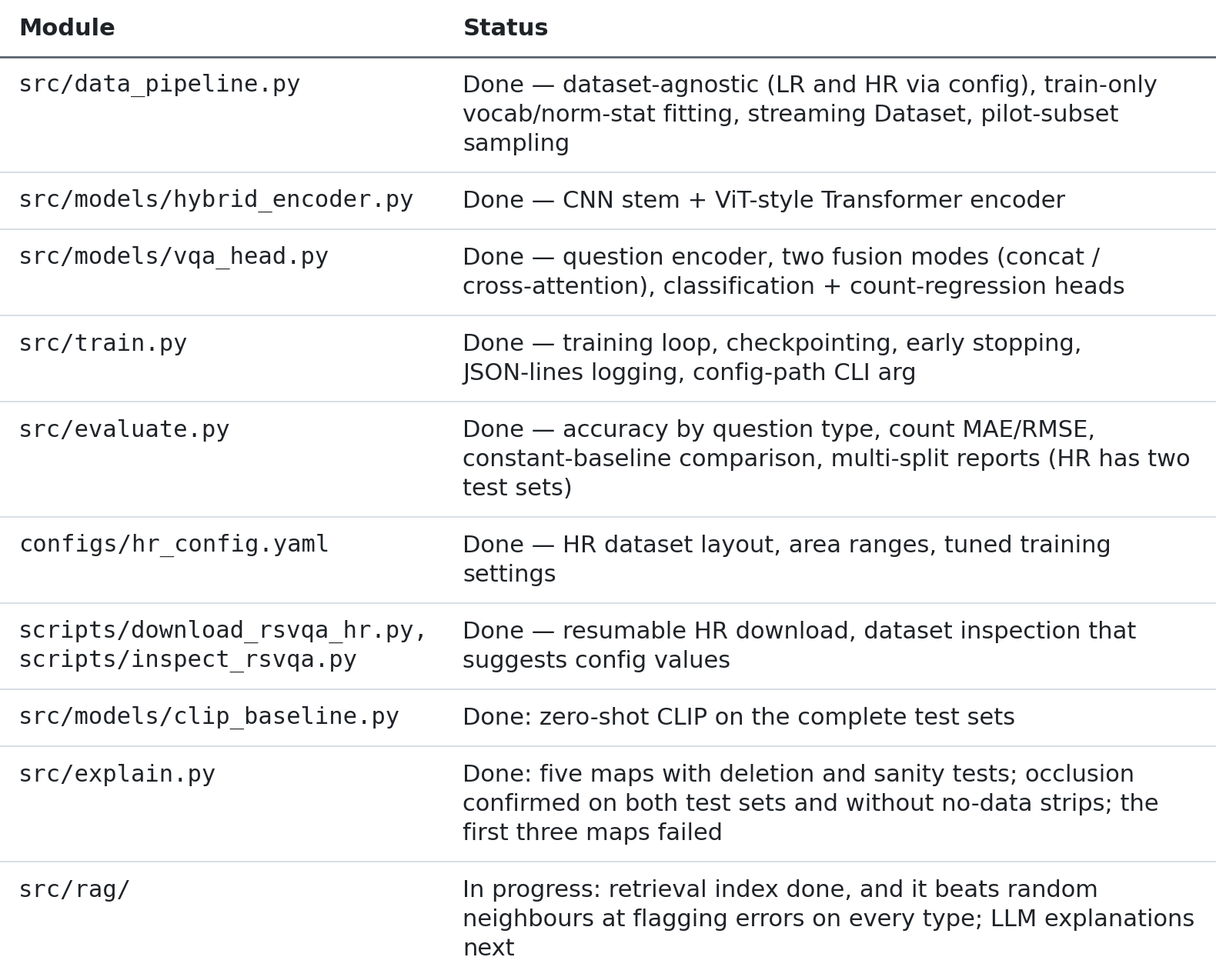
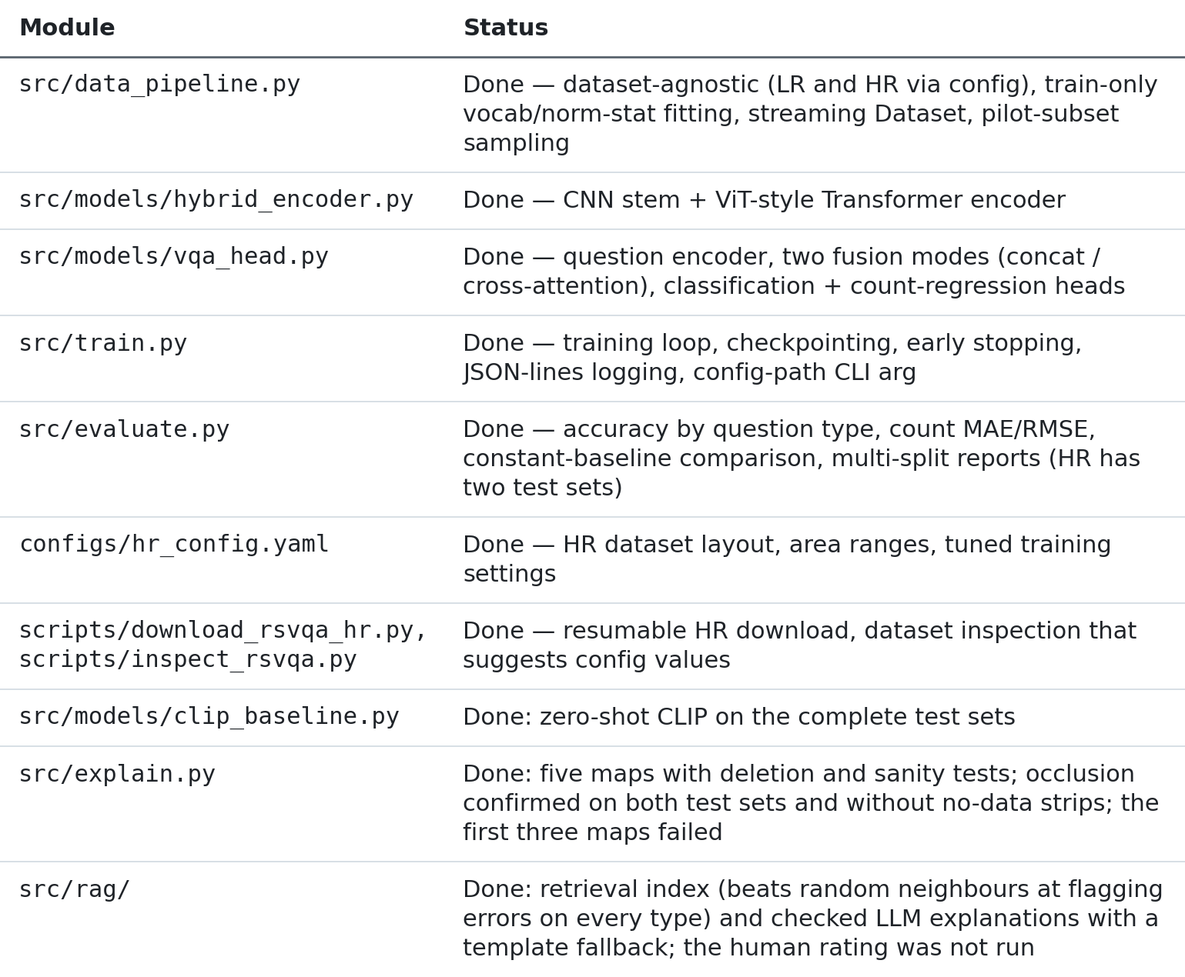
Record RAG explanations (Week 6, part 2): warning stats, checks, example; human rating not run

diff --git a/reports/rag_explanations_hr_full_20261031-090319_pilot.md b/reports/rag_explanations_hr_full_20261031-090319_pilot.md
@@ -1,0 +1,212 @@
+# RAG explanations: hr_full_20261031-090319_pilot
+
+LLM: `openai/gpt-oss-120b` at `https://api.groq.com/openai/v1`. Each question is explained with and without the neighbours.
+
+- Main set: 16 questions (up to 1 per test split, type and right or wrong answer). It decides.
+- Warned set: 8 questions where the warning fired (up to 1 per test split and type, not in the main set). Reported on its own.
+
+## Uncertainty warning on the test pool
+
+Rule, fixed in advance: classification warns when fewer than 3 of the 5 neighbours have the model's answer as their true answer; count warns when the rounded count is outside the neighbours' range of true counts. One question per tile and type.
+
+| Set | Type | Questions | Warned | Model wrong when warned | Model wrong otherwise |
+|---|---|---|---|---|---|
+| test | presence | 300 | 3.3% | 10.0% (10) | 6.9% (290) |
+| test | comp | 300 | 5.0% | 40.0% (15) | 9.5% (285) |
+| test | area | 300 | 9.7% | 41.4% (29) | 7.0% (271) |
+| test | count | 300 | 2.3% | 71.4% (7) | 29.4% (293) |
+| test_phili | presence | 300 | 6.7% | 45.0% (20) | 17.1% (280) |
+| test_phili | comp | 300 | 8.7% | 26.9% (26) | 23.0% (274) |
+| test_phili | area | 300 | 13.0% | 66.7% (39) | 35.6% (261) |
+| test_phili | count | 300 | 0.3% | 100.0% (1) | 37.8% (299) |
+| pooled | presence | 600 | 5.0% | 33.3% (30) | 11.9% (570) |
+| pooled | comp | 600 | 6.8% | 31.7% (41) | 16.1% (559) |
+| pooled | area | 600 | 11.3% | 55.9% (68) | 21.1% (532) |
+| pooled | count | 600 | 1.3% | 75.0% (8) | 33.6% (592) |
+
+## Checks
+
+Code writes the answer, the cells and the strip note in both texts; the LLM writes only the neighbour paragraph, which falls back to a template when a check fails.
+
+| Set | Neighbour paragraph by the LLM | Fell back to the template | Tokens |
+|---|---|---|---|
+| main | 16 of 16 | 0 | 12,157 |
+| warned | 5 of 8 | 3 | 6,494 |
+
+Why texts fell back:
+
+- banned phrasing: 3
+
+## Explanations
+
+### test-22575 (main set): Is a small commercial building present?
+
+True answer: no; model right; warning: no; no-data strip: no.
+
+- **with neighbours** (llm): The model answered "no" with 99% confidence. Among the most similar cases, #1 asked “Is a small commercial building present?” with a true answer no, and #2 asked the same question with a true answer no. All five of the similar training cases have the model’s answer as their true answer. Changing the cells at the top centre and centre of the tile changed the answer most. That tells you what the answer depended on, not where anything is.
+- **without neighbours** (code): The model answered "no" with 99% confidence. Changing the cells at the top centre and centre of the tile changed the answer most. That tells you what the answer depended on, not where anything is.
+
+### test-22388 (main set): Is a medium school present?
+
+True answer: yes; model wrong; warning: no; no-data strip: no.
+
+- **with neighbours** (llm): The model answered "no" with 82% confidence. Four of the five most similar training cases share the model’s answer. For example, case #1 asked “Is a medium school present in the image?” with a true answer of no, and case #3 asked “Is there a medium school?” also with a true answer of no. Changing the cells at the bottom right and top right of the tile changed the answer most. That tells you what the answer depended on, not where anything is.
+- **without neighbours** (code): The model answered "no" with 82% confidence. Changing the cells at the bottom right and top right of the tile changed the answer most. That tells you what the answer depended on, not where anything is.
+
+### test-2469 (main set): What is the area covered by small commercial buildings?
+
+True answer: 0 square meters; model right; warning: no; no-data strip: no.
+
+- **with neighbours** (llm): The model answered "0 square meters" with 99% confidence. Among the most similar training cases, #1 asks “What is the area covered by small commercial buildings?” with a true answer of 0 square meters, and #2 asks the same question with a true answer of 0 square meters; in total, 5 of the 5 similar cases have true answers that match the model’s answer. Changing the cells at the middle left of the tile changed the answer most. That tells you what the answer depended on, not where anything is.
+- **without neighbours** (code): The model answered "0 square meters" with 99% confidence. Changing the cells at the middle left of the tile changed the answer most. That tells you what the answer depended on, not where anything is.
+
+### test-6822 (main set): What is the area covered by buildings?
+
+True answer: more than 1000 square meters; model wrong; warning: no; no-data strip: no.
+
+- **with neighbours** (llm): The model answered "101 to 1000 square meters" with 76% confidence. Among the most similar training cases, #1 and #3 both asked “What is the area covered by buildings?” with the true answer 101 to 1000 square meters, and all five similar cases share this true answer. Changing the cells at the middle right and bottom left of the tile changed the answer most. That tells you what the answer depended on, not where anything is.
+- **without neighbours** (code): The model answered "101 to 1000 square meters" with 76% confidence. Changing the cells at the middle right and bottom left of the tile changed the answer most. That tells you what the answer depended on, not where anything is.
+
+### test-22946 (main set): Are there more commercial buildings than roads?
+
+True answer: no; model right; warning: no; no-data strip: no.
+
+- **with neighbours** (llm): The model answered "no" with 100% confidence. Among the most similar training cases, #1 asked “Are there more commercial buildings than roads?” with a true answer of no, and #2 asked the same question with a true answer of no; in fact, all five similar cases had the true answer “no.” Changing the cells at the middle left and top left of the tile changed the answer most. That tells you what the answer depended on, not where anything is.
+- **without neighbours** (code): The model answered "no" with 100% confidence. Changing the cells at the middle left and top left of the tile changed the answer most. That tells you what the answer depended on, not where anything is.
+
+### test-26969 (main set): Are there more buildings than pedestrians?
+
+True answer: yes; model wrong; warning: no; no-data strip: no.
+
+- **with neighbours** (llm): The model answered "no" with 65% confidence. Three of the five most similar training cases share the model’s answer. For example, case #1 asked “Are there more buildings than pedestrians?” with the true answer “no,” and case #4 asked the same question with the true answer “no.” Changing the cells at the bottom left, centre and top centre of the tile changed the answer most. That tells you what the answer depended on, not where anything is.
+- **without neighbours** (code): The model answered "no" with 65% confidence. Changing the cells at the bottom left, centre and top centre of the tile changed the answer most. That tells you what the answer depended on, not where anything is.
+
+### test-13935 (main set): How many rectangular buildings are there?
+
+True answer: 13; model wrong; warning: no; no-data strip: no.
+
+- **with neighbours** (llm): The model answered "11". Among the most similar training cases, #1 asked “How many rectangular buildings are there?” with a true answer of 10, and #2 asked the same question with a true answer of 16; none of the five similar cases have a true answer of 11. Changing the cells at the top right, middle right and bottom left of the tile changed the answer most. That tells you what the answer depended on, not where anything is.
+- **without neighbours** (code): The model answered "11". Changing the cells at the top right, middle right and bottom left of the tile changed the answer most. That tells you what the answer depended on, not where anything is.
+
+### test-8986 (main set): How many commercial buildings at the bottom of the  hospital are there?
+
+True answer: 0; model right; warning: no; no-data strip: no.
+
+- **with neighbours** (llm): The model answered "0". Among the most similar cases, #1 asked “How many commercial buildings on the right of the park are there?” with a true answer of 0, and #3 asked “How many commercial buildings at the bottom of the university are there?” also with a true answer of 0; in fact, all five similar training questions have true answers of 0. Changing the cells at the bottom centre and bottom right of the tile changed the answer most. That tells you what the answer depended on, not where anything is.
+- **without neighbours** (code): The model answered "0". Changing the cells at the bottom centre and bottom right of the tile changed the answer most. That tells you what the answer depended on, not where anything is.
+
+### test-16141 (warned set): Is there a road on the right of a  park?
+
+True answer: yes; model wrong; warning: yes; no-data strip: no.
+
+- **with neighbours** (llm): The model answered "no" with 51% confidence. The answer is uncertain because only 2 of the 5 similar cases have the model’s answer as their true answer. For example, case #1 asked “Is a park on the right of a road present?” with a true answer of no, and case #4 asked “Is there a road on the right of the library?” with a true answer of yes. Changing the cells at the bottom left and top left of the tile changed the answer most. That tells you what the answer depended on, not where anything is.
+- **without neighbours** (code): The model answered "no" with 51% confidence. Changing the cells at the bottom left and top left of the tile changed the answer most. That tells you what the answer depended on, not where anything is.
+
+### test-8395 (warned set): What is the area covered by large woods?
+
+True answer: more than 1000 square meters; model right; warning: yes; no-data strip: no.
+
+- **with neighbours** (template; failed: banned phrasing: \b(it|the model|model)\s+(sees|saw|looked|looks|noticed|notices|recogni[sz]ed|detected|identified|found|believes?|thinks?|learned|learnt|associates?)\b): The model answered "more than 1000 square meters" with 45% confidence. Of the 5 training questions the model treats as most similar, 1 had this answer as their true answer (#1 is the closest). Because most of them disagree, treat this answer as uncertain. Changing the cells at the top left and top centre of the tile changed the answer most. That tells you what the answer depended on, not where anything is.
+- **without neighbours** (code): The model answered "more than 1000 square meters" with 45% confidence. Changing the cells at the top left and top centre of the tile changed the answer most. That tells you what the answer depended on, not where anything is.
+
+### test-19136 (warned set): Is the number of water areas equal to the number of roads?
+
+True answer: yes; model right; warning: yes; no-data strip: no.
+
+- **with neighbours** (template; failed: banned phrasing: \b(it|the model|model)\s+(sees|saw|looked|looks|noticed|notices|recogni[sz]ed|detected|identified|found|believes?|thinks?|learned|learnt|associates?)\b): The model answered "yes" with 54% confidence. Of the 5 training questions the model treats as most similar, 2 had this answer as their true answer (#1 is the closest). Because most of them disagree, treat this answer as uncertain. Changing the cells at the bottom left of the tile changed the answer most. That tells you what the answer depended on, not where anything is.
+- **without neighbours** (code): The model answered "yes" with 54% confidence. Changing the cells at the bottom left of the tile changed the answer most. That tells you what the answer depended on, not where anything is.
+
+### test-6923 (warned set): How many residential buildings on the left of a  road are there?
+
+True answer: 2; model wrong; warning: yes; no-data strip: no.
+
+- **with neighbours** (llm): The model answered "1". The model’s answer is uncertain because its count of 1 lies outside the range of true counts (2 to 4) seen in the most similar training cases. For example, case #1 asked “How many residential buildings at the top of a park are there?” with a true answer of 4, and case #2 asked “How many residential buildings at the bottom of a road are there?” with a true answer of 2. Changing the cells at the middle left and bottom right of the tile changed the answer most. That tells you what the answer depended on, not where anything is.
+- **without neighbours** (code): The model answered "1". Changing the cells at the middle left and bottom right of the tile changed the answer most. That tells you what the answer depended on, not where anything is.
+
+### test_phili-13393 (main set): What is the area covered by pedestrians on the left of a  commercial building?
+
+True answer: 0 square meters; model right; warning: no; no-data strip: yes.
+
+- **with neighbours** (llm): The model answered "0 square meters" with 100% confidence. All five of the most similar training cases have the same true answer as the model’s answer. For example, case #1 asks “What is the area covered by pedestrians at the bottom of a commercial building?” with a true answer of 0 square meters, and case #2 asks “What is the area covered by pedestrians at the bottom of a commercial building in the image?” also with a true answer of 0 square meters. Changing the cells at the middle right and bottom right of the tile changed the answer most. That tells you what the answer depended on, not where anything is. The tile has a black no-data strip; strong cells next to it say nothing about what is there.
+- **without neighbours** (code): The model answered "0 square meters" with 100% confidence. Changing the cells at the middle right and bottom right of the tile changed the answer most. That tells you what the answer depended on, not where anything is. The tile has a black no-data strip; strong cells next to it say nothing about what is there.
+
+### test_phili-17143 (main set): What is the area covered by rectangular residential buildings?
+
+True answer: more than 1000 square meters; model wrong; warning: no; no-data strip: no.
+
+- **with neighbours** (llm): The model answered "0 square meters" with 89% confidence. Among the most similar training cases, #1 asked “What is the area covered by residential buildings?” with a true answer of 0 square meters, and #2 asked “What is the area covered by rectangular buildings?” also with a true answer of 0 square meters. In total, all five similar cases (5 of 5) have true answers that match the model’s answer. Changing the cells at the top left and bottom left of the tile changed the answer most. That tells you what the answer depended on, not where anything is.
+- **without neighbours** (code): The model answered "0 square meters" with 89% confidence. Changing the cells at the top left and bottom left of the tile changed the answer most. That tells you what the answer depended on, not where anything is.
+
+### test_phili-27477 (main set): Are there more buildings than water areas?
+
+True answer: yes; model right; warning: no; no-data strip: no.
+
+- **with neighbours** (llm): The model answered "yes" with 95% confidence. All five of the most similar training cases have the true answer “yes”. For instance, case #1 asks “Are there more buildings than water areas?” with true answer yes, and case #4 asks “Are there more residential buildings than water areas?” with true answer yes. Changing the cells at the bottom centre of the tile changed the answer most. That tells you what the answer depended on, not where anything is.
+- **without neighbours** (code): The model answered "yes" with 95% confidence. Changing the cells at the bottom centre of the tile changed the answer most. That tells you what the answer depended on, not where anything is.
+
+### test_phili-18482 (main set): Is the number of commercial buildings equal to the number of greenfields?
+
+True answer: no; model wrong; warning: no; no-data strip: yes.
+
+- **with neighbours** (llm): The model answered "yes" with 82% confidence. All five of the most similar training cases have the true answer “yes”. For example, case #1 asks “Is the number of commercial buildings equal to the number of cemeterys?” with a true answer of yes, and case #2 asks “Is the number of commercial buildings equal to the number of vineyards?” with a true answer of yes. Changing the cells at the bottom right and top left of the tile changed the answer most. That tells you what the answer depended on, not where anything is. The tile has a black no-data strip; strong cells next to it say nothing about what is there.
+- **without neighbours** (code): The model answered "yes" with 82% confidence. Changing the cells at the bottom right and top left of the tile changed the answer most. That tells you what the answer depended on, not where anything is. The tile has a black no-data strip; strong cells next to it say nothing about what is there.
+
+### test_phili-22680 (main set): Is a road on the right of a  small building present?
+
+True answer: no; model right; warning: no; no-data strip: no.
+
+- **with neighbours** (llm): The model answered "no" with 99% confidence. Among the most similar training cases, #1 asked “Is a stadium at the bottom of a small building present?” with a true answer of no, and #2 asked “Is there a small wood?” with a true answer of no. All five of the similar cases have the model’s answer as their true answers. Changing the cells at the bottom right and top right of the tile changed the answer most. That tells you what the answer depended on, not where anything is.
+- **without neighbours** (code): The model answered "no" with 99% confidence. Changing the cells at the bottom right and top right of the tile changed the answer most. That tells you what the answer depended on, not where anything is.
+
+### test_phili-12048 (main set): Is there a medium water area?
+
+True answer: yes; model wrong; warning: no; no-data strip: yes.
+
+- **with neighbours** (llm): The model answered "no" with 93% confidence. Among the five most similar training cases, all five have the model’s answer as their true answers. For example, case #1 asked “Is a medium water area present?” with true answer no, and case #2 asked “Is there a medium water area?” with true answer no. Changing the cells at the bottom right and middle right of the tile changed the answer most. That tells you what the answer depended on, not where anything is. The tile has a black no-data strip; strong cells next to it say nothing about what is there.
+- **without neighbours** (code): The model answered "no" with 93% confidence. Changing the cells at the bottom right and middle right of the tile changed the answer most. That tells you what the answer depended on, not where anything is. The tile has a black no-data strip; strong cells next to it say nothing about what is there.
+
+### test_phili-18696 (main set): How many medium buildings are there?
+
+True answer: 7; model wrong; warning: no; no-data strip: no.
+
+- **with neighbours** (llm): The model answered "0". Four of the five most similar training cases have true answers of 0, matching the model’s answer. For example, case #1 asks “How many medium buildings are there in the image?” with a true answer 0, while case #5 asks the same question but has a true answer 1. Changing the cells at the top left and middle right of the tile changed the answer most. That tells you what the answer depended on, not where anything is.
+- **without neighbours** (code): The model answered "0". Changing the cells at the top left and middle right of the tile changed the answer most. That tells you what the answer depended on, not where anything is.
+
+### test_phili-13982 (main set): What is the number of large water areas?
+
+True answer: 0; model right; warning: no; no-data strip: yes.
+
+- **with neighbours** (llm): The model answered "0". Among the most similar training cases, #1 asked “What is the number of large water areas?” with a true answer of 0, and #3 asked “What is the amount of large water areas in the image?” also with a true answer of 0; in fact, all five similar cases have true answers of 0. Changing the cells at the middle left and top left of the tile changed the answer most. That tells you what the answer depended on, not where anything is. The tile has a black no-data strip; strong cells next to it say nothing about what is there.
+- **without neighbours** (code): The model answered "0". Changing the cells at the middle left and top left of the tile changed the answer most. That tells you what the answer depended on, not where anything is. The tile has a black no-data strip; strong cells next to it say nothing about what is there.
+
+### test_phili-27515 (warned set): What is the area covered by residential buildings?
+
+True answer: more than 1000 square meters; model wrong; warning: yes; no-data strip: no.
+
+- **with neighbours** (template; failed: banned phrasing: \b(it|the model|model)\s+(sees|saw|looked|looks|noticed|notices|recogni[sz]ed|detected|identified|found|believes?|thinks?|learned|learnt|associates?)\b): The model answered "101 to 1000 square meters" with 55% confidence. Of the 5 training questions the model treats as most similar, 2 had this answer as their true answer (#1 is the closest). Because most of them disagree, treat this answer as uncertain. Changing the cells at the bottom right and top left of the tile changed the answer most. That tells you what the answer depended on, not where anything is.
+- **without neighbours** (code): The model answered "101 to 1000 square meters" with 55% confidence. Changing the cells at the bottom right and top left of the tile changed the answer most. That tells you what the answer depended on, not where anything is.
+
+### test_phili-15588 (warned set): Is the number of roads equal to the number of buildings?
+
+True answer: no; model right; warning: yes; no-data strip: no.
+
+- **with neighbours** (llm): The model answered "no" with 77% confidence. The model’s answer is uncertain because only 2 of the 5 similar cases share its answer as the true answer. For example, case #1 asks “Is the number of buildings equal to the number of roads?” with a true answer of no, and case #3 asks “Is the number of roads equal to the number of buildings?” with a true answer of no. Changing the cells at the middle left of the tile changed the answer most. That tells you what the answer depended on, not where anything is.
+- **without neighbours** (code): The model answered "no" with 77% confidence. Changing the cells at the middle left of the tile changed the answer most. That tells you what the answer depended on, not where anything is.
+
+### test_phili-7352 (warned set): Is there a parking on the left of a  road?
+
+True answer: no; model wrong; warning: yes; no-data strip: no.
+
+- **with neighbours** (llm): The model answered "yes" with 54% confidence. The model’s answer is uncertain because only 2 of the 5 similar cases share that answer as their true answer. For example, case #3 asked “Is there a parking on the right of a road?” with a true answer yes, and case #4 asked “Is a park on the left of a building present?” with a true answer yes. Changing the cells at the top left of the tile changed the answer most. That tells you what the answer depended on, not where anything is.
+- **without neighbours** (code): The model answered "yes" with 54% confidence. Changing the cells at the top left of the tile changed the answer most. That tells you what the answer depended on, not where anything is.
+
+### test_phili-6506 (warned set): What is the amount of buildings?
+
+True answer: 71; model wrong; warning: yes; no-data strip: no.
+
+- **with neighbours** (llm): The model answered "4". The model’s answer is uncertain because its count of 4 lies outside the range of true answers (6 to 12) seen in similar cases. Among the five most similar training questions, #1 asks “What is the amount of buildings?” with a true answer of 6, and #5 asks the same question with a true answer of 9; none of the similar cases have a true answer of 4. Changing the cells at the top centre and top left of the tile changed the answer most. That tells you what the answer depended on, not where anything is.
+- **without neighbours** (code): The model answered "4". Changing the cells at the top centre and top left of the tile changed the answer most. That tells you what the answer depended on, not where anything is.
+
+## Time
+
+3.9 min in total, 3.1 min of it explaining the rating set. Rating sheet: `reports/rag_rating_hr_full_20261031-090319_pilot.csv`.

diff --git a/README.md b/README.md
@@ -16,8 +16,9 @@ follows.
 
 **Week 1 (RSVQA-LR pipeline) is complete, trained, and evaluated.**
 **Weeks 2-4 (RSVQA-HR port, tuning, full run) are complete, trained, and evaluated.**
+**Weeks 5-6 (CLIP baseline, explainability, RAG explanations) are complete.**
 
-<img src="reports/figures/table_01.png" alt="Status: Module, Status" width="790">
+<img src="reports/figures/table_01.png" alt="Status: Module, Status" width="770">
 
 <details><summary>Table as text</summary>
 
@@ -32,11 +33,11 @@ follows.
 | `scripts/download_rsvqa_hr.py`, `scripts/inspect_rsvqa.py` | Done — resumable HR download, dataset inspection that suggests config values |
 | `src/models/clip_baseline.py` | Done: zero-shot CLIP on the complete test sets |
 | `src/explain.py` | Done: five maps with deletion and sanity tests; occlusion confirmed on both test sets and without no-data strips; the first three maps failed |
-| `src/rag/` | In progress: retrieval index done, and it beats random neighbours at flagging errors on every type; LLM explanations next |
+| `src/rag/` | Done: retrieval index (beats random neighbours at flagging errors on every type) and checked LLM explanations with a template fallback; the human rating was not run |
 
 </details>
 
-Run `pytest tests/ -v` to verify (80 tests, all passing — includes HR code paths tested against a small synthetic fake-HR dataset, so they don't require the real 14GB download).
+Run `pytest tests/ -v` to verify (206 tests, all passing — includes HR code paths tested against a small synthetic fake-HR dataset, so they don't require the real 14GB download).
 
 The HR data was downloaded and inspected on 2026-10-22: 10,659 tiles (512×512 PNG), 4 splits with no
 tile overlap, and question types presence / comp / area / count. Area answers turned out to be exact
@@ -69,7 +70,7 @@ same model, optimizer, schedule, early-stopping and random state.
 Week 3 tuning is done (see Week 3 tuning below): small model, learning rate 1.5e-4. The Week 4 full
 run is done too (see HR full run below): 90.2% test accuracy, count MAE 0.91.
 
-**Next:** Week 6, part 2 (LLM explanations from the retrieved neighbours).
+**Next:** Week 7, the demo web app (runs locally on a Mac, with cached explanations for the demo questions).
 
 ### Week 1 baseline results (RSVQA-LR, 5 epochs, GPU)
 
@@ -607,6 +608,64 @@ Only types that pass may use neighbour disagreement as an uncertainty warning in
 - **The model gets 72% to 92% of the neighbours right, but they are training data,** so that is inflated by fitting
   and is not used in explanations as evidence of reliability. Explanations use the neighbours' true answers.
 
+### RAG explanations (Week 6, part 2)
+
+The second half: each answer gets a short text explanation built from the trained model's own evidence. Code writes
+everything that is a plain fact: the answer and its confidence, which grid cells changed the answer most (the
+occlusion map, the one that passed the XAI tests), and a note when the tile has a black no-data strip. A free hosted
+LLM (`openai/gpt-oss-120b` on Groq's free tier) writes one paragraph about the 5 retrieved training neighbours:
+what they asked, their true answers, and a warning when they disagree with the model. Reports:
+`reports/rag_explanations_hr_full_20261031-090319.md` (full run) and `..._pilot.md` (the 24 pilot texts, labelled).
+
+**The LLM paragraph is checked by code before it is shown.** It fails, and a fixed template paragraph is shown
+instead, if it uses a number not in the facts, cites a neighbour other than #1 to #5, mentions the cells or the strip
+(code writes those), says or implies what is in the image, gives reasons or causes for the answer ("based on",
+"relied on", "the model sees"), calls anything correct or wrong, mentions similarity, runs over 90 words, or adds or
+omits the uncertainty note against the rule. The LLM never sees the true answer or whether the model was right.
+On the full run, the LLM paragraph passed for 60 of 64 main questions and 11 of 16 warned ones; 80 requests, 11
+minutes, within the free tier. Three pilot rounds shaped the checks: the first prompt made the LLM invent training
+cases it was not given, blame the warning on the model's confidence, and claim the neighbours caused the answer.
+
+Example (pilot, a warned count question, true answer 71):
+
+> The model answered "4". The model's answer is uncertain because its count of 4 lies outside the range of true
+> answers (6 to 12) seen in similar cases. Among the five most similar training questions, #1 asks "What is the
+> amount of buildings?" with a true answer of 6, and #5 asks the same question with a true answer of 9; none of the
+> similar cases have a true answer of 4. Changing the cells at the top centre and top left of the tile changed the
+> answer most. That tells you what the answer depended on, not where anything is.
+
+**The uncertainty warning, rule fixed before any result:** a yes/no or area answer is warned when fewer than 3 of
+its 5 neighbours have it as their true answer; a count is warned when, rounded, it falls outside the neighbours'
+range of true counts. On one question per test tile and type (13,128), both test sets pooled:
+
+<img src="reports/figures/table_18.png" alt="RAG explanations (Week 6, part 2): Type, Warned, Model wrong when warned, Model wrong otherwise" width="686">
+
+<details><summary>Table as text</summary>
+
+| Type | Warned | Model wrong when warned | Model wrong otherwise |
+|---|---|---|---|
+| Presence | 5.0% | 43.3% | 11.3% |
+| Comparison | 4.5% | 33.6% | 11.4% |
+| Area | 11.5% | 60.9% | 15.1% |
+| Count | 1.1% | 85.7% | 35.2% |
+
+</details>
+
+- **A warned answer is about 3 to 4 times as likely to be wrong** (count about 2.4 times), and this holds in both test
+  sets. Comparison in Philadelphia separates least (29.0% against 19.5%), matching its retrieval result.
+- **Most wrong answers are not warned.** The warning fires on 1% to 12% of questions, so it is a "be careful"
+  signal, not a guarantee when it is silent. Count almost never warns, because the neighbours' range is usually wide.
+- **Unanimous neighbours can back a wrong answer.** When all 5 neighbours share the model's wrong answer, the
+  paragraph makes that answer sound well supported (pilot examples: test-6822, test_phili-17143, test_phili-12048).
+- **Whether the explanations help people was not measured.** A blind rating was designed and generated (80 pairs,
+  identical except for the neighbour paragraph, decision rule fixed in advance: Wilson 95% lower bound of the share
+  preferring the version with neighbours above 0.5), but it was not carried out. So no claim is made that RAG makes
+  the explanations better for readers; the claims rest on the retrieval test and the warning statistics above. The
+  sheet and its scoring (`python -m src.rag.explain_agent <run_dir> configs/hr_config.yaml score --ratings <file>`)
+  remain available.
+- **Some derived statements are not checked.** The checks cover numbers, neighbour ranks and banned claims, not
+  arithmetic the LLM does on the facts (for example "none of the similar cases has a true answer of 4").
+
 ## Key design decisions
 
 - **Count questions are a regression target**, not a classification bucket.
@@ -647,6 +706,10 @@ Only types that pass may use neighbour disagreement as an uncertainty warning in
   (`raw_dir`, `split_file_prefix`, `images_subdir`, `image_ext`) recorded at
   build time — reusing a `data_dir` for a different raw dataset raises
   instead of silently serving stale artifacts built from the wrong data.
+- **Explanations: code states the facts, the LLM only summarises the neighbours.** The answer, the cells and the
+  strip note are written by code in every explanation; the LLM writes one paragraph about the retrieved neighbours,
+  and code checks it before it is shown, falling back to a template. The API key is read from an environment
+  variable (`GROQ_API_KEY`), never stored in the repo.
 - **Cross-attention fusion** (default) has question words attend directly
   over image patch tokens, with retrievable per-word attention weights
   (`return_attention=True`) — the planned hook for Week 5's explainability
@@ -736,7 +799,7 @@ To train on a GPU instead:
 All hyperparameters live in `configs/model_config.yaml` (LR) /
 `configs/hr_config.yaml` (HR):
 
-<img src="reports/figures/table_18.png" alt="Configuration: Key, Meaning" width="859">
+<img src="reports/figures/table_19.png" alt="Configuration: Key, Meaning" width="859">
 
 <details><summary>Table as text</summary>
 
@@ -759,6 +822,9 @@ All hyperparameters live in `configs/model_config.yaml` (LR) /
 | `mixed_precision` | float16 math on CUDA via autocast + gradient scaling; ignored on CPU/MPS |
 | `selection_metric` | What `best.pt` and early stopping maximize: `score` = val accuracy + (1 − val count MAE / median-baseline MAE), or `val_loss` |
 | `experiments_dir`, `experiment_name` | Where runs are logged/checkpointed |
+| `rag_k`, `rag_*_batch_size`, `rag_search_chunk_rows`, `rag_bootstrap_samples` | RAG retrieval: neighbours per question, encoding and search batch sizes, bootstrap samples for the retrieval test |
+| `rag_llm_*` | RAG explanations: OpenAI-compatible endpoint, model, the environment variable holding the API key, request pacing and retries |
+| `rag_max_words`, `rag_top_cells`, `rag_warning_min_agree`, `rag_banned_phrases` | Explanation rules: paragraph length, cells named, the warning rule, phrases that send a paragraph back to the template |
 
 </details>
 
@@ -776,7 +842,8 @@ src/
 │   ├── vqa_head.py        # question encoder, fusion (concat/cross-attention), dual heads, loss
 │   └── clip_baseline.py   # zero-shot CLIP comparison
 ├── rag/
-│   └── retrieval_index.py # index of training QA pairs by fused vector, tested against random neighbours
+│   ├── retrieval_index.py # index of training QA pairs by fused vector, tested against random neighbours
+│   └── explain_agent.py   # explanations: code-written facts + checked LLM neighbour paragraph, warning stats
 ├── train.py
 ├── evaluate.py
 └── explain.py             # attention, Grad-CAM and occlusion maps, with faithfulness tests

diff --git a/reports/rag_explanations_hr_full_20261031-090319.md b/reports/rag_explanations_hr_full_20261031-090319.md
@@ -1,0 +1,47 @@
+# RAG explanations: hr_full_20261031-090319
+
+LLM: `openai/gpt-oss-120b` at `https://api.groq.com/openai/v1`. Each question is explained with and without the neighbours.
+
+- Main set: 64 questions (up to 4 per test split, type and right or wrong answer). It decides.
+- Warned set: 16 questions where the warning fired (up to 2 per test split and type, not in the main set). Reported on its own.
+
+## Uncertainty warning on the test pool
+
+Rule, fixed in advance: classification warns when fewer than 3 of the 5 neighbours have the model's answer as their true answer; count warns when the rounded count is outside the neighbours' range of true counts. One question per tile and type.
+
+| Set | Type | Questions | Warned | Model wrong when warned | Model wrong otherwise |
+|---|---|---|---|---|---|
+| test | presence | 2,226 | 4.2% | 42.6% (94) | 7.5% (2,132) |
+| test | comp | 2,226 | 3.6% | 37.5% (80) | 7.6% (2,146) |
+| test | area | 2,226 | 9.9% | 52.5% (221) | 9.7% (2,005) |
+| test | count | 2,226 | 1.4% | 87.1% (31) | 32.9% (2,195) |
+| test_phili | presence | 1,056 | 6.6% | 44.3% (70) | 19.7% (986) |
+| test_phili | comp | 1,056 | 6.5% | 29.0% (69) | 19.5% (987) |
+| test_phili | area | 1,056 | 14.7% | 72.9% (155) | 27.2% (901) |
+| test_phili | count | 1,056 | 0.4% | 75.0% (4) | 40.0% (1,052) |
+| pooled | presence | 3,282 | 5.0% | 43.3% (164) | 11.3% (3,118) |
+| pooled | comp | 3,282 | 4.5% | 33.6% (149) | 11.4% (3,133) |
+| pooled | area | 3,282 | 11.5% | 60.9% (376) | 15.1% (2,906) |
+| pooled | count | 3,282 | 1.1% | 85.7% (35) | 35.2% (3,247) |
+
+## Checks
+
+Code writes the answer, the cells and the strip note in both texts; the LLM writes only the neighbour paragraph, which falls back to a template when a check fails.
+
+| Set | Neighbour paragraph by the LLM | Fell back to the template | Tokens |
+|---|---|---|---|
+| main | 60 of 64 | 4 | 48,661 |
+| warned | 11 of 16 | 5 | 12,763 |
+
+Why texts fell back:
+
+- banned phrasing: 9
+- too long: 1
+
+## Explanations
+
+Left out so the rating stays blind. After scoring, the labelled texts are in `rag_explanations_full.json` in the run folder.
+
+## Time
+
+11.5 min in total, 10.7 min of it explaining the rating set. Rating sheet: `reports/rag_rating_hr_full_20261031-090319.csv`.
